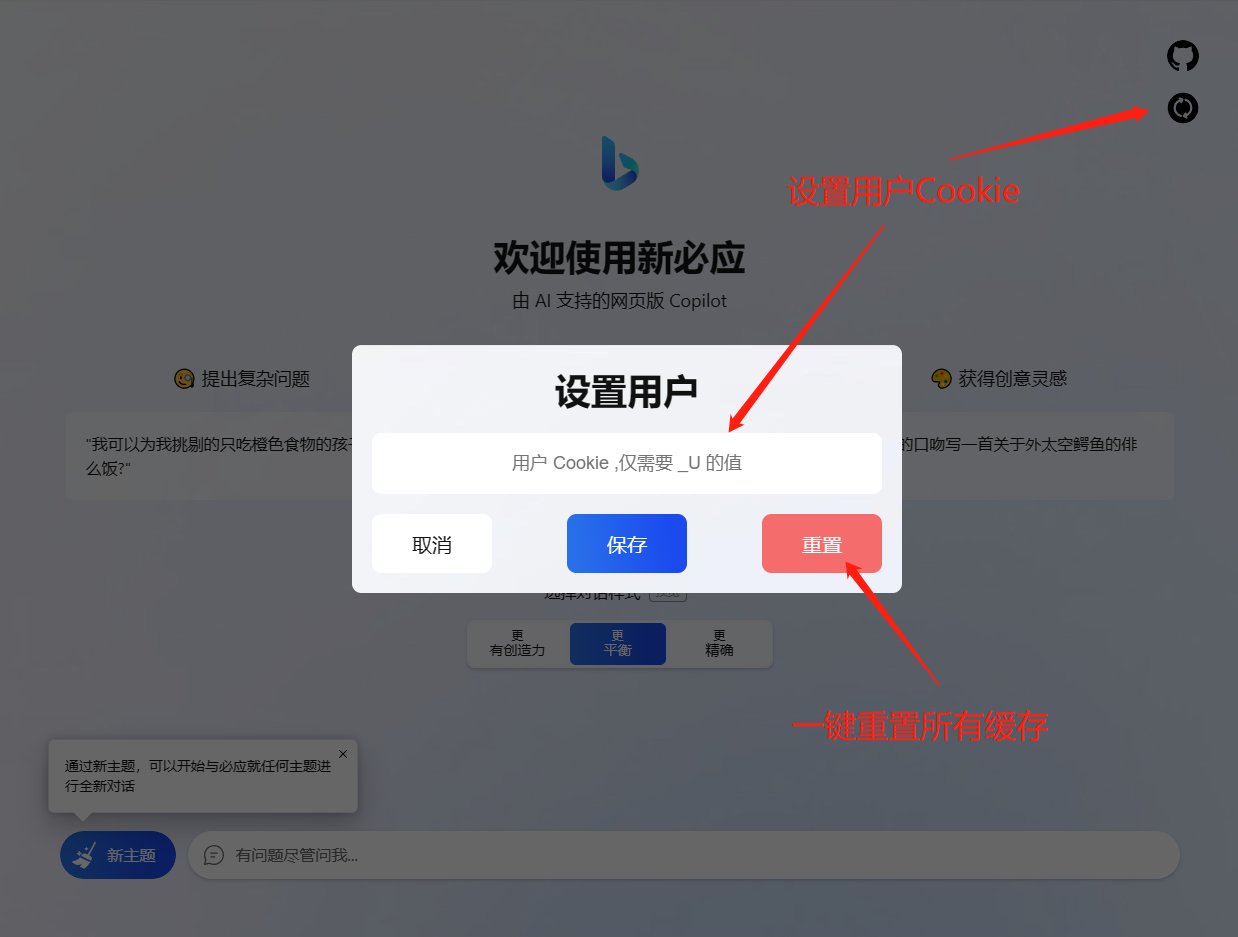
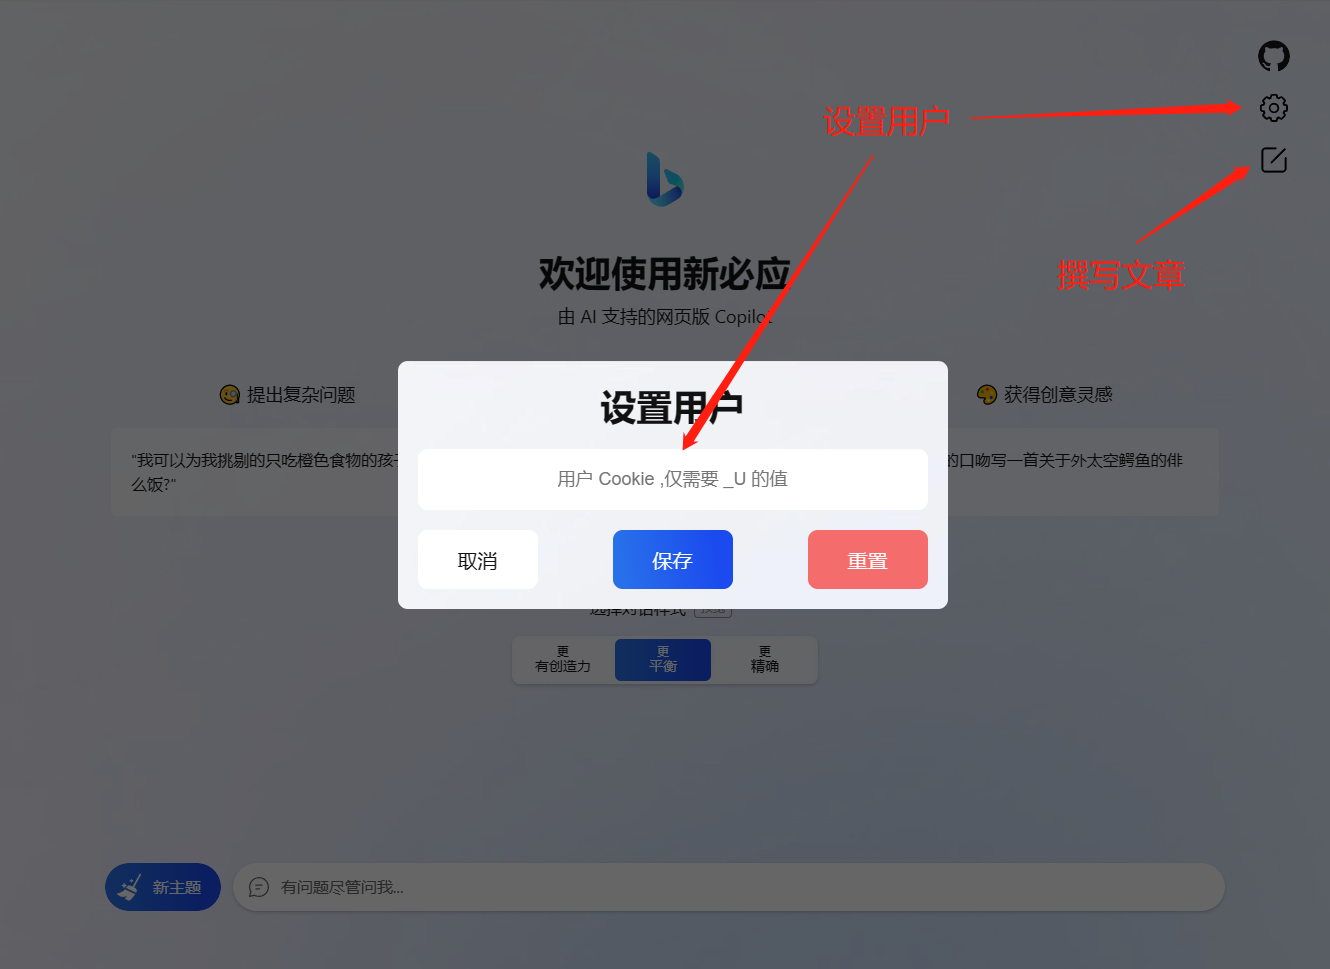
docs: :memo: 完善侧边栏文档

diff --git a/web/sw.js b/web/sw.js
@@ -1,7 +1,7 @@
 // 引入workbox 框架
 importScripts('./js/sw/workbox-sw.js');
 
-const SW_VERSION = 'v1.3.5';
+const SW_VERSION = 'v1.4.0';
 const CACHE_PREFIX = 'BingAI';
 
 workbox.setConfig({ debug: false, logLevel: 'warn' });
@@ -19,7 +19,7 @@ workbox.precaching.precacheAndRoute([
   // css
   {
     url: '/web/css/index.css',
-    revision: '2023.05.06.14',
+    revision: '2023.05.08',
   },
   // js
   {
@@ -61,7 +61,11 @@ workbox.precaching.precacheAndRoute([
   // html
   {
     url: '/web/chat.html',
-    revision: '2023.05.06.16',
+    revision: '2023.05.08',
+  },
+  {
+    url: '/web/compose.html',
+    revision: '2023.05.08',
   },
   // ico
   {

diff --git a/README.md b/README.md
@@ -11,6 +11,8 @@
 ⭐ 遇到一切问题，先点左下角 ![新主题](./docs/img/bing-clear.png) 试试，不行使用刷新大法（Shift + F5 或 Ctrl + Shift + R 或 右上角设置中的重置），最终大招就 清理浏览器缓存 及 Cookie ，比如（24小时限制、未登录提示等等）
 
 - [go-proxy-bing](#go-proxy-bing)
+	- [网页展示](#网页展示)
+	- [侧边栏](#侧边栏)
 	- [演示站点](#演示站点)
 	- [获取Cookie](#获取Cookie)
 	- [部署](#部署)
@@ -20,7 +22,9 @@
 		- [Vercel](#Vercel)
 		- [Render](#Render)
 	- [TODO](#TODO)
-    
+
+## 网页展示
+
 - 电脑端未登录状态
 
 ![电脑未登录](./docs/img/bing-nologin.png)
@@ -38,6 +42,16 @@
 - 手机端未登录状态
 
 ![手机端未登录](./docs/img/bing-m-nologin.png)
+
+## 侧边栏
+
+- 在 Edge 浏览器可把聊天和撰写分别添加侧边栏
+
+![添加侧边栏](./docs/img/sidebar-add.png)
+
+![聊天](./docs/img/sidebar-chat.png)
+
+![撰写](./docs/img/sidebar-compose.png)
 
 ## 演示站点
 
